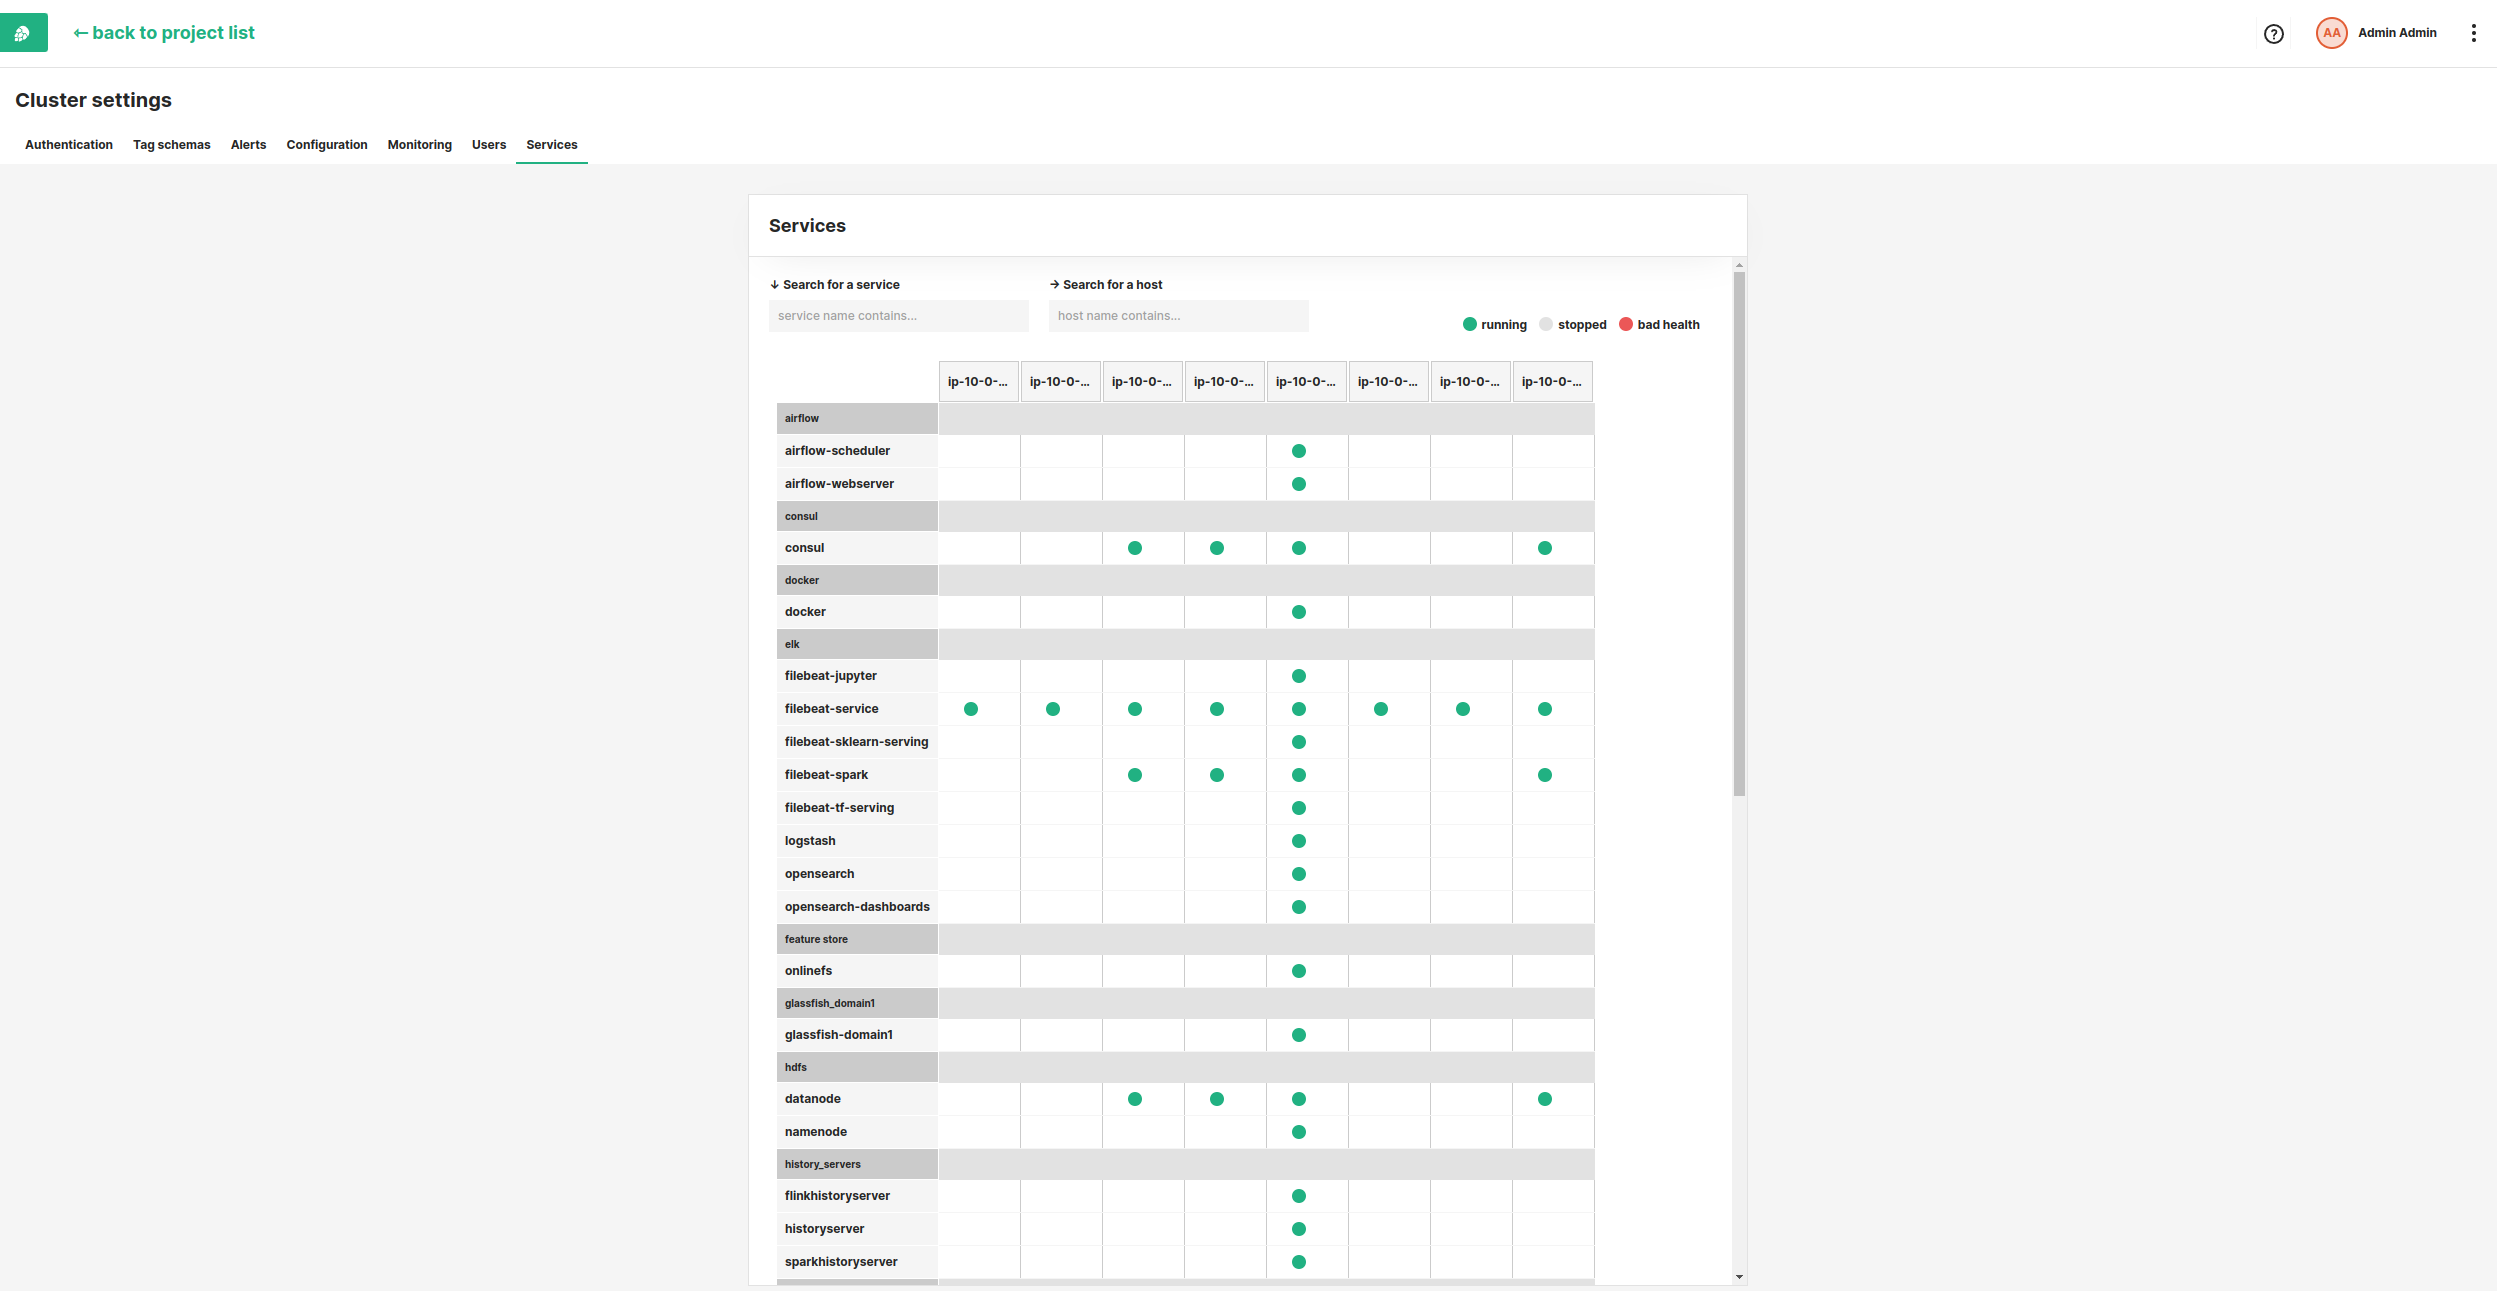
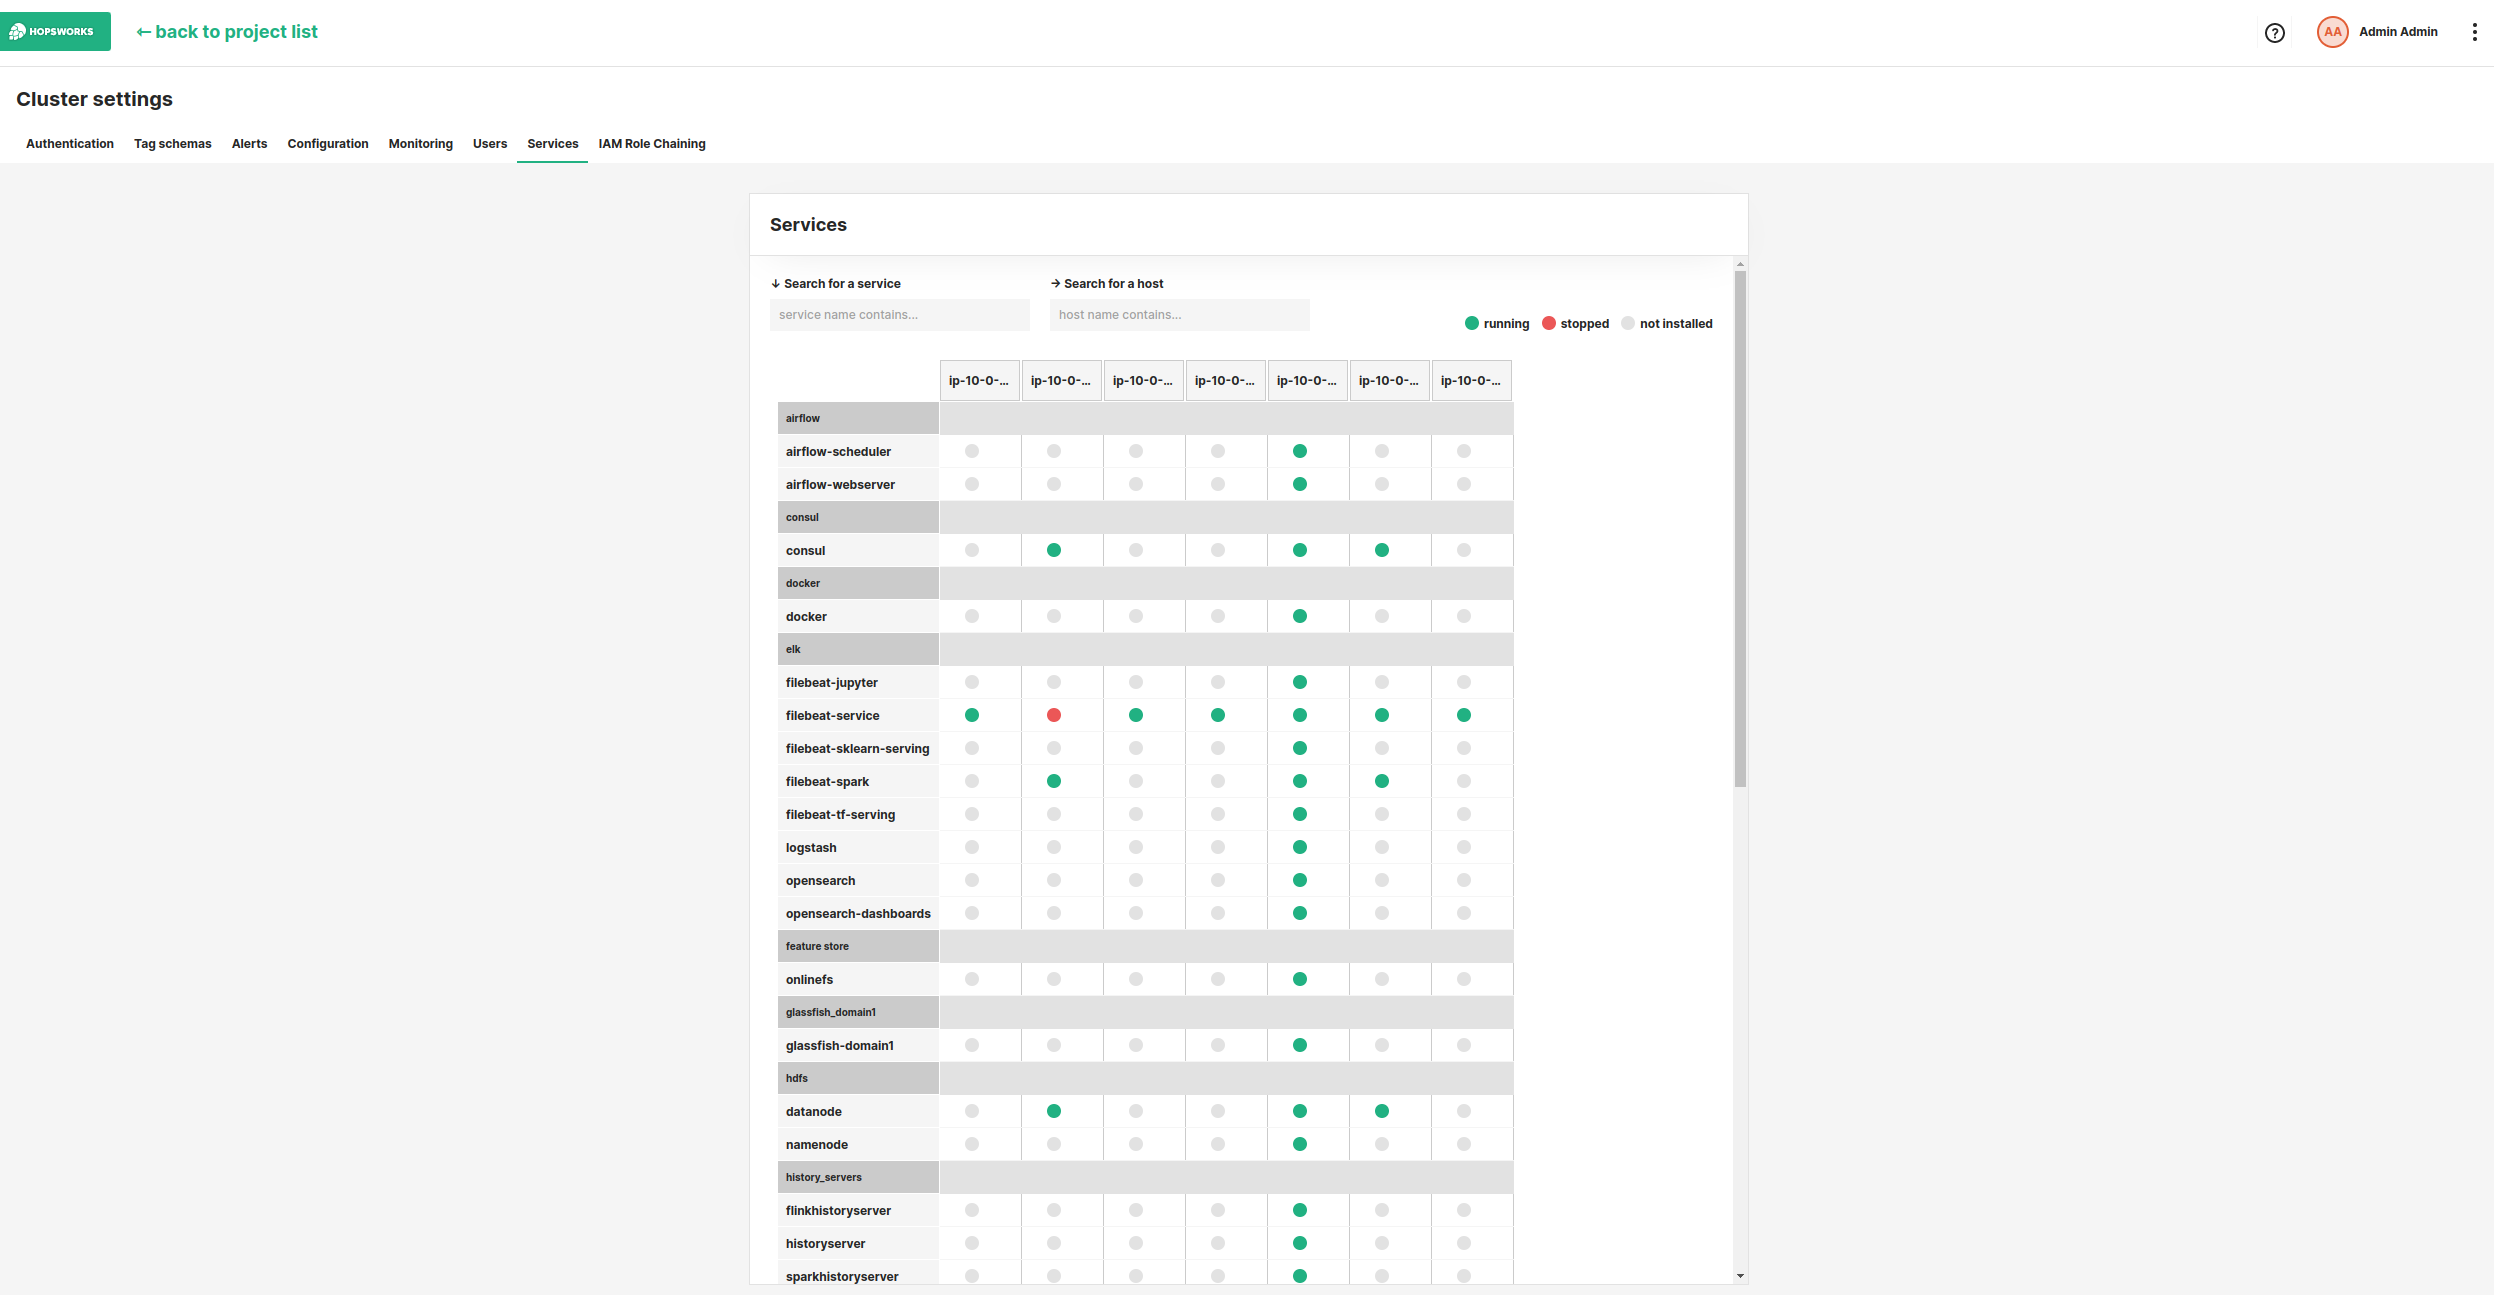
move iam roles

diff --git a/docs/admin/roleChaining.md b/docs/admin/roleChaining.md
@@ -1,0 +1,77 @@
+# AWS IAM Role Chaining
+Using an EC2 instance profile enables your Hopsworks cluster to access AWS resources. 
+This forces all Hopsworks users to share the instance profile role and the resource access policies attached to 
+that role. To allow for per project access policies you could have your users use AWS credentials directly in 
+their programs which is not recommended so you should instead use [Role chaining](https://docs.aws.amazon.com/IAM/latest/UserGuide/id_roles_terms-and-concepts.html#iam-term-role-chaining).
+To use Role chaining, you need to first setup IAM roles in AWS:
+
+ **Step 1**. Create an instance profile role with policies that will allow it to assume all resource roles that we can 
+ assume 
+from the Hopsworks cluster.
+
+```json
+{
+    "Version": "2012-10-17",
+    "Statement": [
+        {
+            "Sid": "AssumeDataRoles",
+            "Effect": "Allow",
+            "Action": "sts:AssumeRole",
+            "Resource": [
+                "arn:aws:iam::123456789011:role/test-role",
+                "arn:aws:iam::xxxxxxxxxxxx:role/s3-role",
+                "arn:aws:iam::xxxxxxxxxxxx:role/dev-s3-role",
+                "arn:aws:iam::xxxxxxxxxxxx:role/redshift"
+            ]
+        }
+    ]
+}
+```
+<figcaption>Example policy for assuming four roles.</figcaption>
+
+ **Step 2**. Create the resource roles and edit trust relationship and add policy document that will allow the instance 
+ profile 
+to assume this role.
+
+```json
+{
+    "Version": "2012-10-17",
+    "Statement": [
+        {
+        "Effect": "Allow",
+        "Principal": {
+            "AWS": "arn:aws:iam::xxxxxxxxxxxx:role/instance-profile"
+        },
+        "Action": "sts:AssumeRole"
+        }
+    ]
+}
+```
+<figcaption>Example policy document.</figcaption>
+
+Role chaining allows the instance profile to assume any role in the policy attached in step 1. To limit access to 
+iam roles we can create a per-project mapping from the admin page in Hopsworks.
+
+<figure>
+  <a href="../../assets/images/admin/iam-role/cluster-settings.png">
+    <img src="../../assets/images/admin/iam-role/cluster-settings.png" alt="Role Chaining"/>
+  </a>
+  <figcaption>Role Chaining</figcaption>
+</figure>
+
+Click on your name in the top right corner of the navigation bar and choose _Cluster Settings_ from the dropdown menu.
+In the Cluster Settings' _IAM Role Chaining_ tab you can configure the mappings between projects and IAM roles.
+You can add mappings by entering the project name, which roles in that project can access the cloud role and the 
+role ARN. 
+Optionally you can set a role mapping as default by marking the default checkbox. The default roles can be changed from 
+the project setting by a Data owner in that project.
+
+<figure>
+  <a href="../../assets/images/admin/iam-role/new-role-chaining.png">
+    <img src="../../assets/images/admin/iam-role/new-role-chaining.png" alt="Create Role Chaining"/>
+  </a>
+  <figcaption>Create Role Chaining</figcaption>
+</figure>
+
+Any member of a project can then go to the _Project Settings_ -> 
+[Assuming IAM Roles](../compute/project/iamRoleChaining.md) page to see which roles they can assume.

diff --git a/docs/user_guides/common/iam_role/iam_role_chaining.md b/docs/user_guides/common/iam_role/iam_role_chaining.md
@@ -1,0 +1,44 @@
+# Assuming AWS IAM Roles
+When deploying Hopsworks on EC2 instances you might need to assume different roles to access resources on AWS. 
+These roles are configured in AWS and mapped to a project in Hopsworks, for a guide on how to configure this go to 
+[AWS IAM Role Chaining](../../admin/iamRoleChaining.md).
+
+After an administrator configured role mappings in Hopsworks you can see the roles you can assume in the Project 
+Settings IAM Role Chaining tab.
+<figure>
+  <a href="../../../../assets/images/guides/iam_role/project-settings.png">
+    <img src="../../../../assets/images/guides/iam_role/project-settings.png" alt="Role Chaining"/>
+  </a>
+  <figcaption>Role Chaining</figcaption>
+</figure>
+
+You can then use the [Hops python library](https://hops-py.logicalclocks.com/) and 
+[Hops java/scala library](https://github.com/logicalclocks/hops-util) to assume the roles listed in your project’s settings page.
+
+When calling _assume\_role_ you can pass the role ARN string or use the get role method that takes the role id 
+as an argument. If you assign a default role for your project you can call _assume\_role_ without arguments.
+
+You can assign (if you are a Data owner in that project) a default role to you project by clicking on the _default_ 
+checkbox of the role you want to make default. You can set one default per project role. If a default is set for 
+a project role (Data scientist or Data owner) and all members (ALL) the default set for the project role will take 
+precedence over the default set for all members.
+
+###### python
+```python
+from hops.credentials_provider import get_role, assume_role
+credentials = assume_role(role_arn=get_role(1))
+spark.read.csv("s3a://resource/test.csv").show()
+```
+
+###### scala
+```scala
+import io.hops.util.CredentialsProvider
+val creds = CredentialsProvider.assumeRole(CredentialsProvider.getRole(1))
+spark.read.csv("s3a://resource/test.csv").show()
+```
+
+The _assume\_role_  method sets spark hadoop configurations that will allow spark to read s3 buckets. The code examples 
+above show how to read s3 buckets using Python and Scala.
+
+The method also sets environment variables **AWS_ACCESS_KEY_ID**, **AWS_SECRET_ACCESS_KEY** and 
+**AWS_SESSION_TOKEN** so that programs running in the container can use the credentials for the newly assumed role.

diff --git a/docs/admin/services.md b/docs/admin/services.md
@@ -15,10 +15,10 @@ This page give administrators an overview of which services are running on the c
 It provides information about their status as reported by agents that monitor the status of the different 
 Systemd units.
 
-Columns in the services table represent machines in your cluster. Each service running on a machine will have a status
-_running_ (green), _stopped_ (gray), or _bad health_ (red). 
-Services are divided into groups, and you can search for a service by its name or group. You can also search for
-machines by their host name.
+Columns in the services table represent machines in your cluster. Each service running on a machine will have a status 
+_running_  (green) or _stopped_ (red). If a service is not installed on a machine it will have a status _not installed_ (gray). 
+Services are divided into groups, and you can search for a service by its name or group. You can also search for machines 
+by their host name.
 
 <figure>
   <a  href="../../assets/images/admin/services/services.png">
